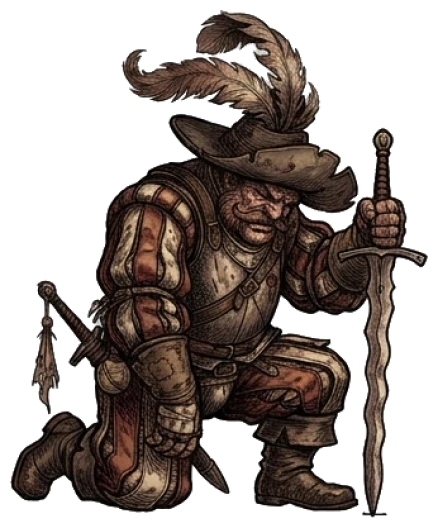
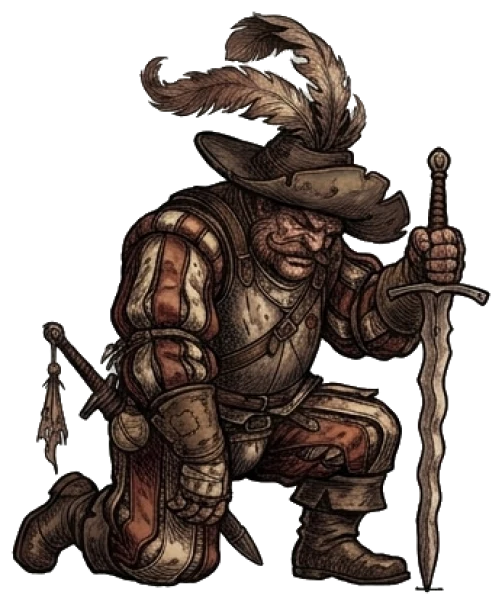
feat(poses_b_piloto): r4 escala por pose de p-kh aplicada (hit x1,478, ko x1,45; skill/victory x1,267), hoja final y notas

diff --git a/art-b/poses_piloto/final_sheet.js b/art-b/poses_piloto/final_sheet.js
@@ -1,0 +1,31 @@
+'use strict';
+// Hoja final del warrior (r4, escala por pose decidida por p-kh t_207c5474): idle | hit | skill | victory | ko a escala real,
+// apoyados en la misma línea de suelo (última fila con alfa>128). Fondo oscuro.
+// node art-b/poses_piloto/final_sheet.js -> specs/poses_b_piloto/evidencia/piloto/hoja_final.webp
+const path = require('path');
+const sharp = require('sharp');
+const H = path.join(__dirname, '..', '..', 'client', 'public', 'assets', 'b', 'heroes');
+const OUT = path.join(__dirname, '..', '..', 'specs', 'poses_b_piloto', 'evidencia', 'piloto', 'hoja_final.webp');
+const PAD = 24, BG = '#2a2622';
+const label = (t) => Buffer.from(`<svg xmlns="http://www.w3.org/2000/svg" width="300" height="30"><text x="2" y="22" font-family="Arial" font-size="20" fill="#e8dcc0">${t}</text></svg>`);
+const names = [['idle', ''], ['hit', '×1,478'], ['skill', '×1,267'], ['victory', '×1,267'], ['ko', '×1,45']];
+(async () => {
+  const items = [];
+  for (const [k, s] of names) {
+    const f = path.join(H, `warrior_${k}.webp`);
+    const { data, info } = await sharp(f).ensureAlpha().raw().toBuffer({ resolveWithObject: true });
+    let low = info.height - 1;
+    outer: for (; low >= 0; low--) for (let x = 0; x < info.width; x++) if (data[(low * info.width + x) * 4 + 3] > 128) break outer;
+    items.push({ k, s, f, w: info.width, h: info.height, foot: low + 1 });
+  }
+  const up = Math.max(...items.map((i) => i.foot)), down = Math.max(...items.map((i) => i.h - i.foot));
+  const base = 40 + up, Ht = base + down + PAD;
+  let x = PAD; const comp = [];
+  for (const i of items) {
+    comp.push({ input: i.f, left: x, top: base - i.foot });
+    comp.push({ input: label(`${i.k} ${i.s}`), left: x, top: 4 });
+    x += i.w + PAD;
+  }
+  await sharp({ create: { width: x, height: Ht, channels: 3, background: BG } }).composite(comp).webp({ quality: 85 }).toFile(OUT);
+  console.log(OUT, x, Ht, items.map((i) => `${i.k}:foot=${i.foot}/${i.h}`).join(' '));
+})();

diff --git a/specs/poses_b_piloto/NOTAS.md b/specs/poses_b_piloto/NOTAS.md
@@ -162,3 +162,25 @@ Hallazgos que impiden resolverlo solo con una escala por pose:
 - Hit: A/B cierran cabeza/torso a ≤3 % pero la altura sube a 1,20–1,23× (retroceso con piernas abiertas).
 
 **Pendiente de p-kh** (decisión; sin tocar el arte hasta entonces), por pose elegir A / C / B (o un término medio con la escala entre dos filas de la tabla). Recomendación del implementer: **C** para skill y victory (igualan altura, piernas y bota; cabeza ±14 % es ruido de hombros), **A** para hit (cabeza 1,00×, torso 0,97×, +4 % de escala; altura 1,20×) y **A** para el KO (cabeza/torso ≈ idle) solo si p-kh acepta que se lea casi de pie; si no, C.
+
+## r4 — veredicto p-kh (t_207c5474) aplicado (sin generar; siguen 6 de 8 generaciones, 2 sin usar)
+**Decisión de arte de p-kh** (escala por pose, a ojo por ancho de sombrero/hombros; «la regla es que coincidan las partes del cuerpo, no la altura de la silueta»): **hit A ×1,478**, **skill C ×1,267**, **victory C ×1,267**, **ko ×1,45** (ni A ni C: A queda tan alto como el idle de pie; C encoge al personaje ~⅓ en cabeza/sombrero). General: aprobado, la hoja no tiene halos ni fondo. Las cifras de cabeza/torso que no igualan al idle quedan **justificadas por esa decisión**, no se corrigen (la métrica `head` de `measure_body.js` no es fiable en victory/ko/skill: no es monótona con la escala).
+
+Aplicado: `process.sh` (hit 1.478, ko 1.45) y reproceso de **solo hit y ko** desde `raw/warrior_poses.png`; skill y victory no se tocaron (siguen ×1,267, blobs idénticos). Medido con `R=14 node measure_body.js` (ratio pose/idle):
+
+| pose | `--scale` | h | head | legs | boot | torso | waist |
+|---|---|---|---|---|---|---|---|
+| hit | 1,478 | 1,20 | 1,00 | 1,37 | 0,75 | 0,97 | 1,41 |
+| skill | 1,267 | 1,00 | 1,14 | 0,99 | 0,94 | 0,81 | 0,83 |
+| victory | 1,267 | 0,99 | 0,86 | 1,02 | 0,89 | 0,72 | 0,85 |
+| ko | 1,45 | 0,94 | 0,74 | 0,66 | 1,47 | 0,88 | 0,75 |
+
+ko coincide con lo previsto por p-kh (h 0,94, torso 0,88; head 0,74 = la métrica poco fiable, ~0,9 a ojo). Hit: la altura 1,20 viene de la pose (retroceso con piernas abiertas), cabeza 1,00 y torso 0,97.
+
+Verificación geométrica (sharp; no pude mirar las imágenes con visión): hit 619×760 y ko 502×605, **alfa 0 en las 4 esquinas, 0 píxeles no transparentes en el borde de la imagen**, filas inferiores del recorte vacías (margen de 13–15 px; sin tira de suelo: la fila opaca más baja mide 63–71 px de ancho = pies/espada, no una franja), semitransparentes 4,6 % (borde suave igual que el idle 4,2 %). **Línea de suelo**: última fila con alfa>128 a 13/15/12 px del borde inferior en idle/hit/ko (pie en el mismo sitio dentro de 3 px; cada sprite se ancla por el borde inferior).
+
+Hoja final: `evidencia/piloto/hoja_final.webp` (idle | hit | skill | victory | ko a escala real, misma línea de suelo; `art-b/poses_piloto/final_sheet.js`). `contact_poses.webp` rehecha con el arte final.
+
+Video: `antes.webm`/`despues.webm` **no se regrabaron**: el puerto :5174 lo ocupa el vite huérfano pid 20060 (no se usa otro puerto ni se mata). Los videos de r3 quedan viejos (anteriores a la escala por pose de r4) y **no se commitean** (además `.webm` no va al repo, AGENTS §5); la evidencia vigente es la hoja final + las suites.
+
+Suites: `npx vitest run` cliente 34 archivos / 625 tests OK; `npm run build` OK. No se levantó ningún vite.
